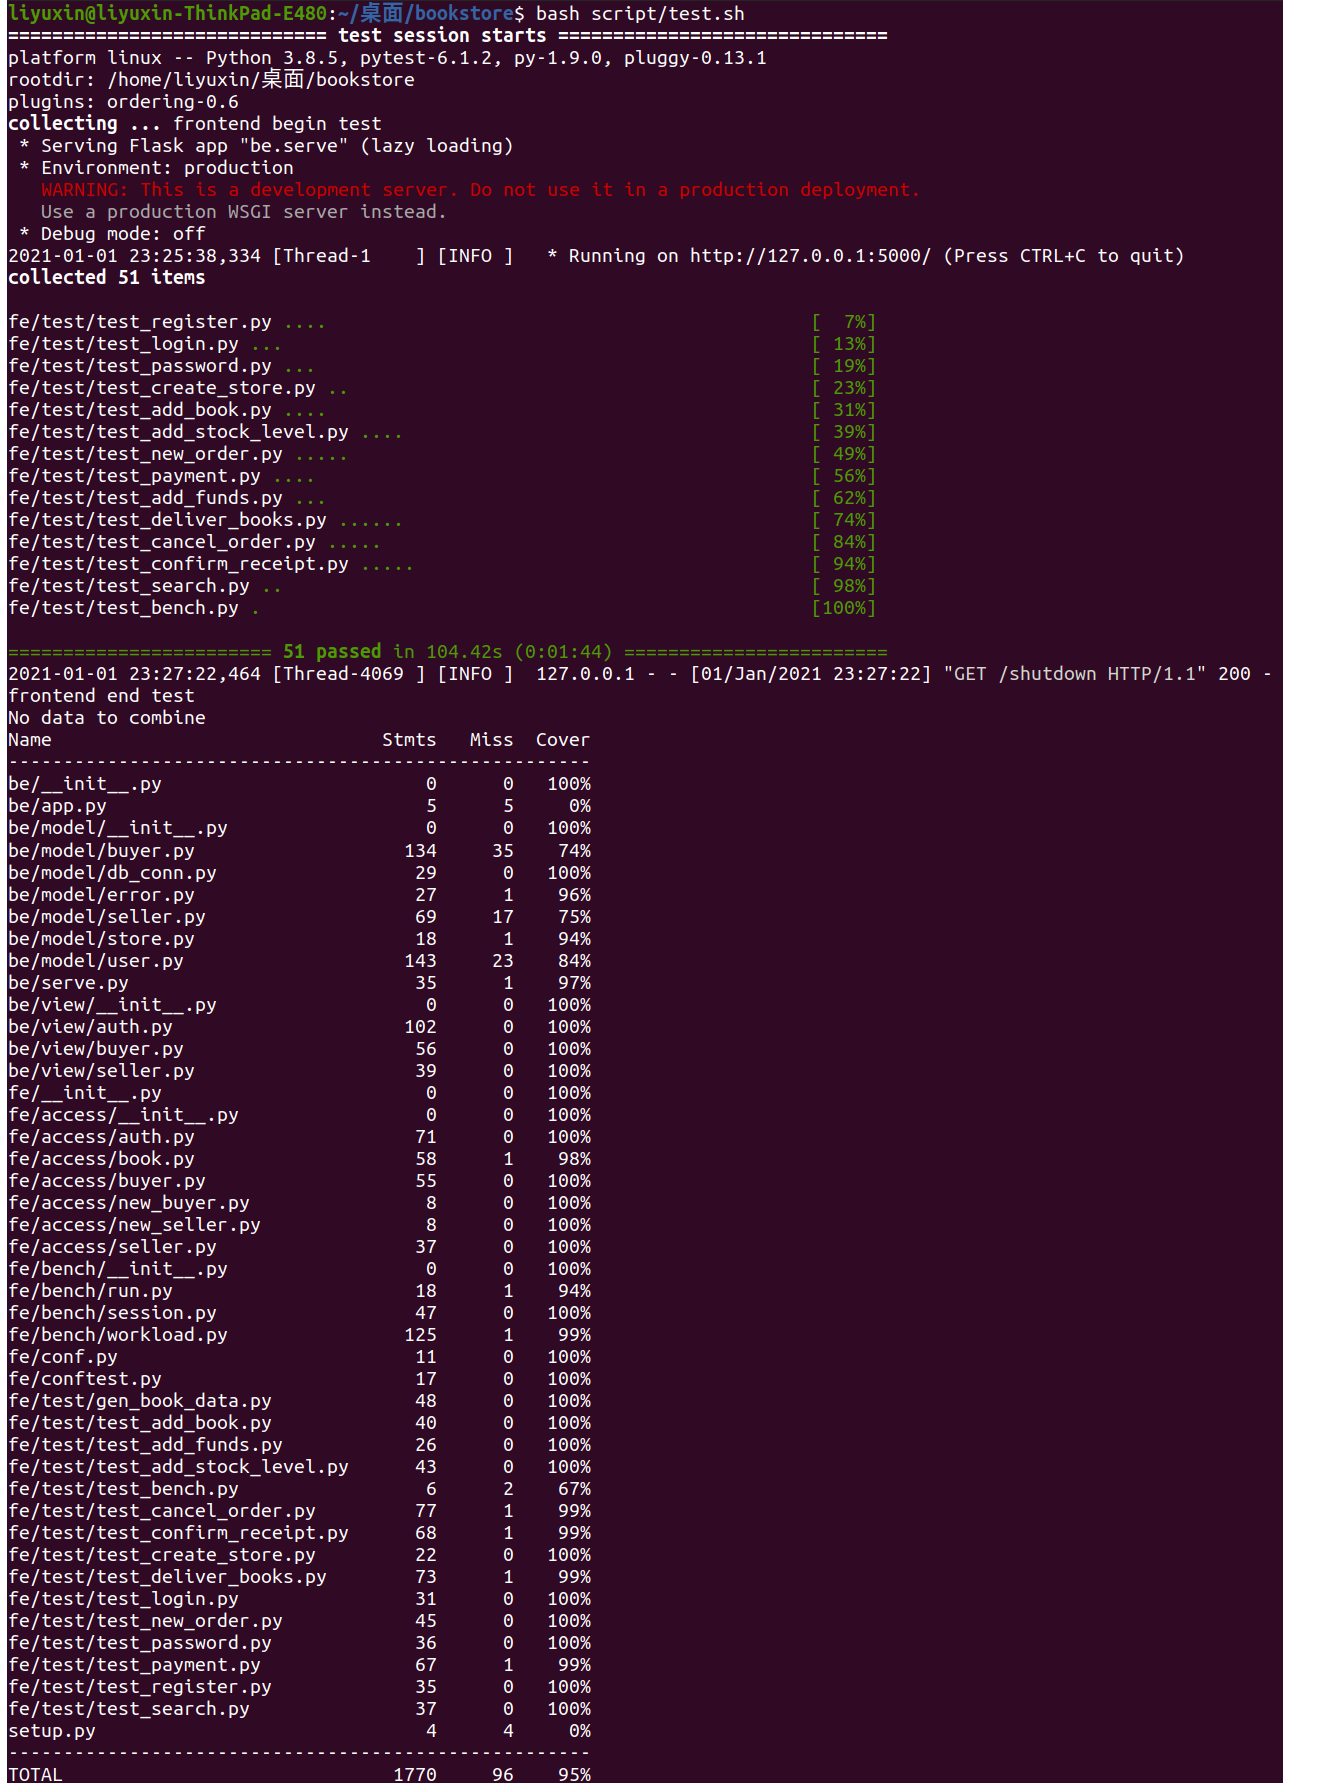
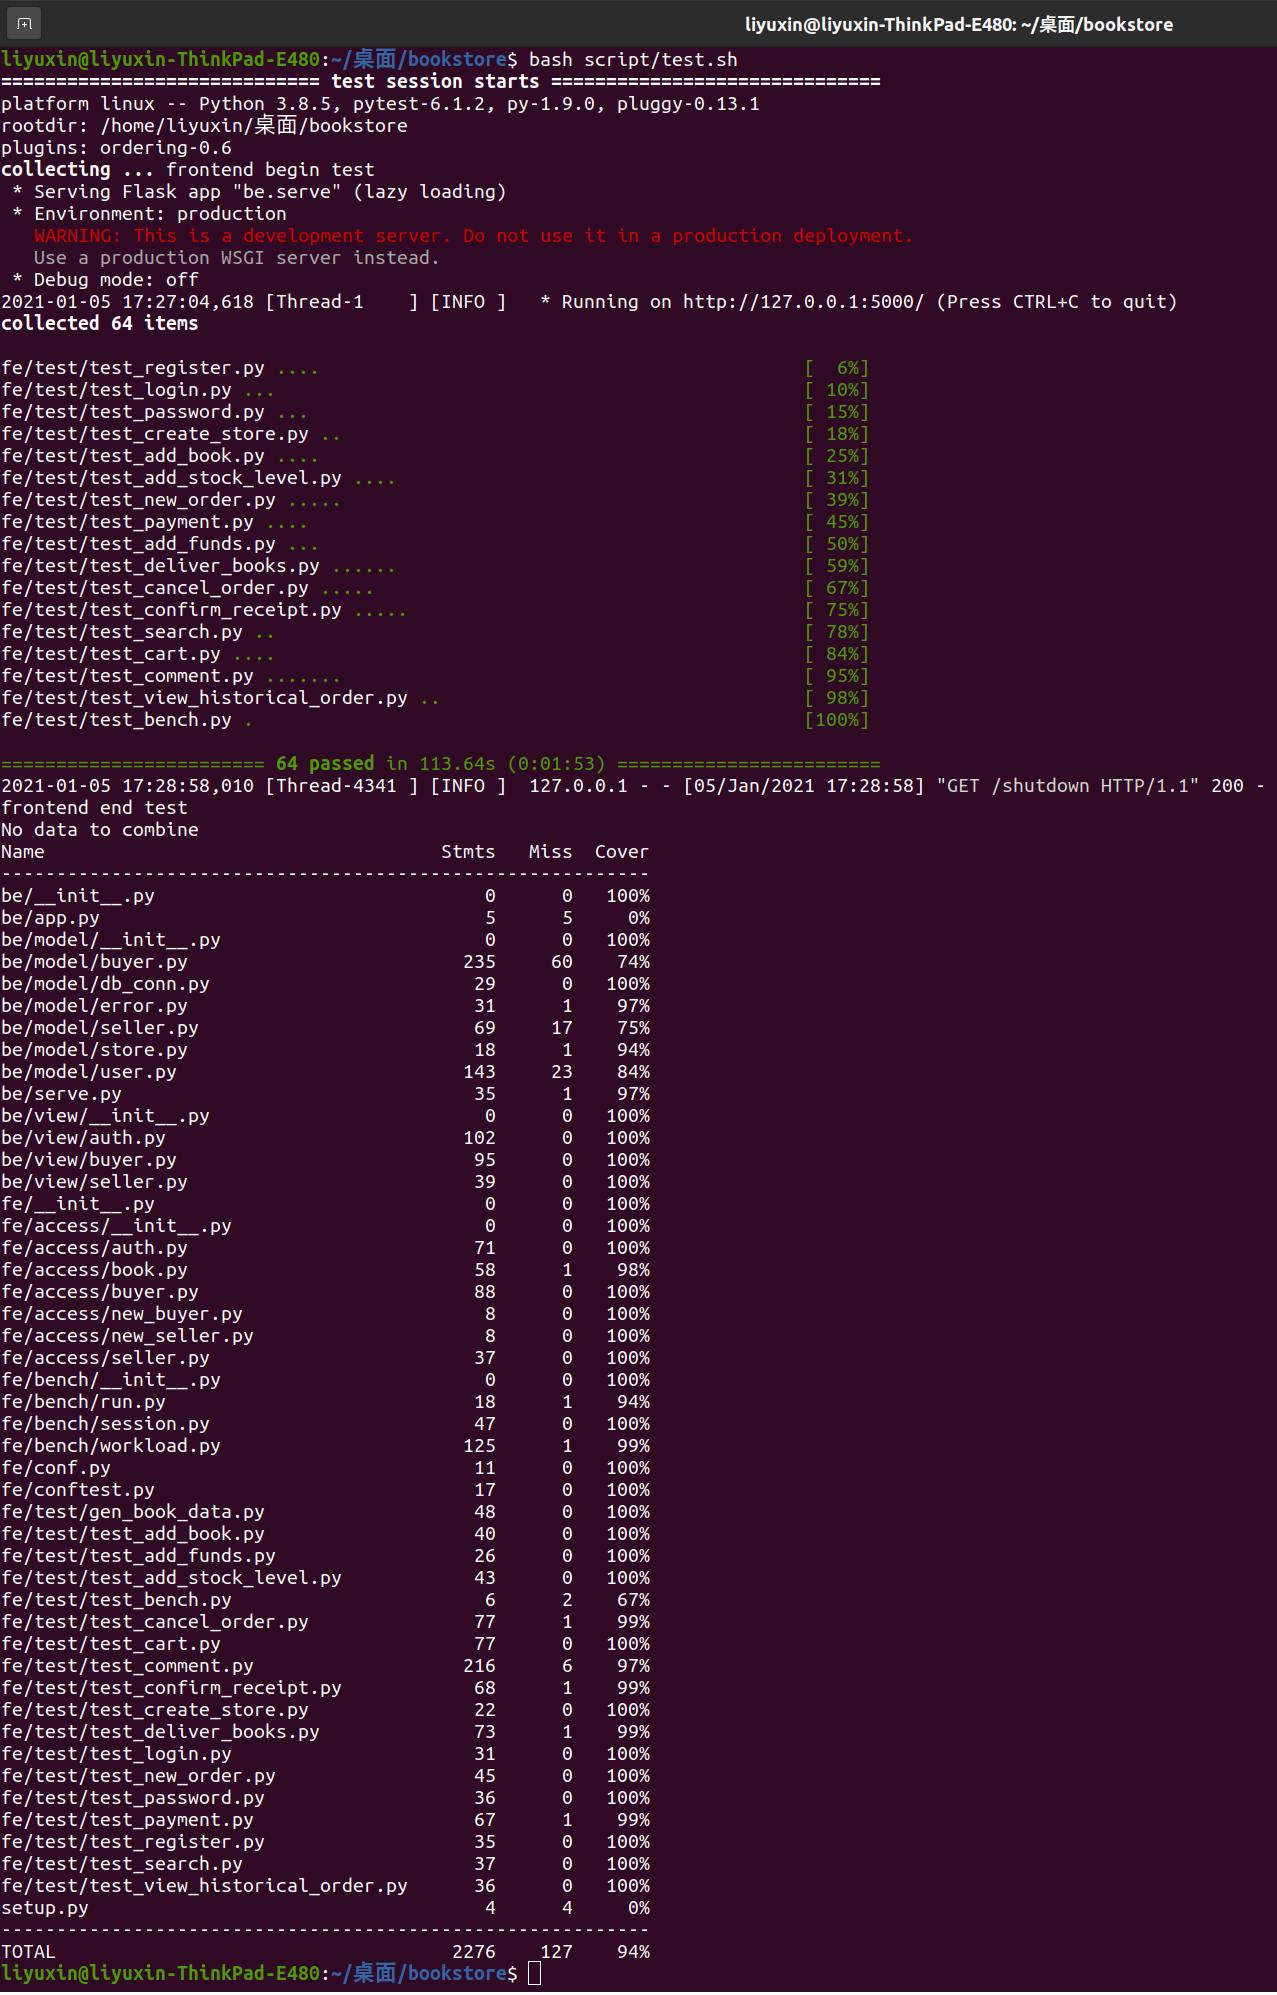
update README.md

Changed region(s): [[0.0, 0.0, 1.0, 1.0]]

diff --git a/fe/test/test_comment.py b/fe/test/test_comment.py
@@ -20,6 +20,7 @@ class TestComment:
         self.rate = random.randint(0, 5)
         yield
 
+    @pytest.mark.run(order=55)
     def test_ok(self):
         gen_book = GenBook(self.seller_id, self.store_id)
         ok, buy_book_id_list = gen_book.gen(non_exist_book_id=False, low_stock_level=False, max_book_count=5)
@@ -53,6 +54,7 @@ class TestComment:
         assert code == 200
         assert comments[0] == self.comment
 
+    @pytest.mark.run(order=56)
     def test_comment_twice(self):
         gen_book = GenBook(self.seller_id, self.store_id)
         ok, buy_book_id_list = gen_book.gen(non_exist_book_id=False, low_stock_level=False, max_book_count=5)
@@ -88,6 +90,7 @@ class TestComment:
         code = self.buyer.add_comment(self.store_id, self.buy_book_info_list[0][0].id, self.comment, self.rate)
         assert code != 200
 
+    @pytest.mark.run(order=57)
     def test_non_exist_book_in_store(self):
         gen_book = GenBook(self.seller_id, self.store_id)
         ok, buy_book_id_list = gen_book.gen(non_exist_book_id=False, low_stock_level=False, max_book_count=5)
@@ -121,6 +124,7 @@ class TestComment:
         assert code != 200
         assert comments[0] != self.comment
 
+    @pytest.mark.run(order=58)
     def test_non_exist_order(self):
         gen_book = GenBook(self.seller_id, self.store_id)
         ok, buy_book_id_list = gen_book.gen(non_exist_book_id=False, low_stock_level=False, max_book_count=5)
@@ -131,6 +135,7 @@ class TestComment:
         code = self.buyer.add_comment(self.store_id, self.buy_book_info_list[0][0].id, self.comment, self.rate)
         assert code != 200
 
+    @pytest.mark.run(order=59)
     def test_comment_while_order_is_not_done(self):
         gen_book = GenBook(self.seller_id, self.store_id)
         ok, buy_book_id_list = gen_book.gen(non_exist_book_id=False, low_stock_level=False, max_book_count=5)
@@ -159,6 +164,7 @@ class TestComment:
         code = self.buyer.add_comment(self.store_id, self.buy_book_info_list[0][0].id, self.comment, self.rate)
         assert code != 200
 
+    @pytest.mark.run(order=60)
     def test_non_exist_user(self):
         gen_book = GenBook(self.seller_id, self.store_id)
         ok, buy_book_id_list = gen_book.gen(non_exist_book_id=False, low_stock_level=False, max_book_count=5)
@@ -192,6 +198,7 @@ class TestComment:
         code, comments = self.buyer.view_comments(self.store_id, self.buy_book_info_list[0][0].id)
         assert code != 200
 
+    @pytest.mark.run(order=61)
     def test_non_exist_store(self):
         gen_book = GenBook(self.seller_id, self.store_id)
         ok, buy_book_id_list = gen_book.gen(non_exist_book_id=False, low_stock_level=False, max_book_count=5)

diff --git a/fe/test/test_cart.py b/fe/test/test_cart.py
@@ -20,6 +20,7 @@ class TestCart:
         self.password = self.seller1_id
         yield
 
+    @pytest.mark.run(order=51)
     def test_ok(self):
         gen_book_1 = GenBook(self.seller1_id, self.store1_id)
         gen_book_2 = GenBook(self.seller2_id, self.store2_id)
@@ -43,6 +44,7 @@ class TestCart:
         assert code == 200
         assert cart == cart_test
 
+    @pytest.mark.run(order=52)
     def test_non_exist_book_in_store(self):
         gen_book_1 = GenBook(self.seller1_id, self.store1_id)
         ok, buy_book_id_list_1 = gen_book_1.gen(non_exist_book_id=False, low_stock_level=False, max_book_count=5)
@@ -54,6 +56,7 @@ class TestCart:
             code = self.buyer.add_into_cart(self.store1_id, i[0].id+"_x", i[1])
             assert code != 200
 
+    @pytest.mark.run(order=53)
     def test_non_exist_user(self):
         gen_book_1 = GenBook(self.seller1_id, self.store1_id)
         ok, buy_book_id_list_1 = gen_book_1.gen(non_exist_book_id=False, low_stock_level=False, max_book_count=5)
@@ -68,6 +71,7 @@ class TestCart:
         code, cart = self.buyer.view_cart()
         assert code != 200
 
+    @pytest.mark.run(order=54)
     def test_non_exist_store(self):
         gen_book_1 = GenBook(self.seller1_id, self.store1_id)
         ok, buy_book_id_list_1 = gen_book_1.gen(non_exist_book_id=False, low_stock_level=False, max_book_count=5)

diff --git a/fe/test/test_view_historical_order.py b/fe/test/test_view_historical_order.py
@@ -25,12 +25,14 @@ class TestViewHistoricalOrder:
         self.time = time.strftime('%a, %d %b %Y %H:%M:%S GMT', time.localtime(time.time()))
         yield
 
+    @pytest.mark.run(order=62)
     def test_ok(self):
         orders_test = [{"order_id": self.order_id, "store_id": self.store_id, "order_time": self.time, "state": "unpaid"}]
         code, orders = self.buyer.view_historical_order()
         assert code == 200
         assert orders == orders_test
 
+    @pytest.mark.run(order=63)
     def test_non_exist_user(self):
         orders_test = [
             {"order_id": self.order_id, "store_id": self.store_id, "order_time": self.time, "state": "unpaid"}]

diff --git a/README.md b/README.md
@@ -109,7 +109,7 @@ bash script/test.sh
 
 ### ER图
 
-![](./image/ER图.svg)
+![](./image/ER.svg)
 
 **实体：** 用户、商店、订单和书籍四个实体类，其中用户包括*买家*和*卖家*两个子类
 
@@ -127,7 +127,7 @@ bash script/test.sh
 - 商店接单：一对多关系，一家商店可以拥有多笔订单，一笔订单只能被一家商店拥有
 - 订单详情：多对多关系，一笔订单可以包括多册书，一册书也可以被多笔订单拥有
 - 商店存货：多对多关系，一册书可以被多家商店拥有，一家商店也可以拥有多册书
-- 用户评论：多对多关系，一位买家可以对多家商店下的多本书进行评论，一家商店下的一册书也可以由多为买家评论
+- 用户评论：多对多关系，一位买家可以对多家商店下的多本书进行评论，一家商店下的一册书也可以由多位买家评论
 
 
 
@@ -493,34 +493,35 @@ bash script/test.sh
 #### f17. 添加评论*
 
 - 实现：判断 `user_id` 、`store_id` 、`book_id` 和 `order_id` 是否存在，即判断该用户是否在该商店下购买过该本书籍，存在的话判断用户是否已经对该商品进行了评论，如果已经进行了评论则返回错误，否则将用户的评论添加到评论表中。
-- 分析：涉及五次查询操作和一次插入操作
+- 分析：涉及五次查询操作和一次插入操作。
 
 
 
 #### f18. 查看评论*
 
-- 实现：判断 `user_id` 、`store_id` 和 `book_id` 是否存在，存在的话查询该本书下的评论
-- 分析：涉及四次查询操作
+- 实现：判断 `user_id` 、`store_id` 和 `book_id` 是否存在，存在的话查询该本书下的评论。
+- 分析：涉及四次查询操作。
 
 
 
 #### f19. 添加购物车*
 
-- 实现：判断 `user_id` 、`store_id` 是否存在，存在的话查看用户购物车中是否已经存在该本书籍，存在的话更新书籍数量，不存在的话添加到购物车中
-- 分析：涉及三次查询操作及一次更新或插入操作
+- 实现：判断 `user_id` 、`store_id` 是否存在，存在的话查看用户购物车中是否已经存在该本书籍，存在的话更新书籍数量，不存在的话添加到购物车中。
+- 分析：涉及三次查询操作及一次更新或插入操作。
 
 
 
 #### f20. 查看购物车*
 
-- 实现：判断 `user_id` 是否存在，存在的话查询 `user_cart` 中 `user_id` 的购物车情况
-- 分析：涉及两次查询操作
+- 实现：判断 `user_id` 是否存在，存在的话查询 `user_cart` 中 `user_id` 的购物车情况。
+- 分析：涉及两次查询操作。
 
 
 
 #### f21. 历史记录*
 
-
+- 实现：判断 `user_id` 是否存在，存在的话从 `new_order` 表中查询历史订单。
+- 分析：涉及两次查询操作。
 
 
 
@@ -530,7 +531,7 @@ bash script/test.sh
 
 - 实现：搜索功能需要提前构建倒排索引表实现，利用用户输入的查询内容和对应的书号构建查询表，提前存储在数据库中，以便用户输入某查询时可以很快返回对应书的所有信息给用户。
 
-  - search_title：用于存放搜索标题的查询，search_id和title查询内容组成联合主键，无需额外的索引
+  - search_title：用于存放搜索标题的查询，search_id和title查询内容组成联合主键，无需额外的索引。
 
     考虑到用户在查询标题时存在记忆模糊的情况，可能会记不住整个标题，只记得标题的部分内容，因此构建的倒排索引应当包含只有部分标题的查询。所以在表内增加了标题全称和对应查询之间的记录之外，还增加了部分标题名和对应查询的记录。这里对于所有的标题，主要存在中文和英文两类，对于中文，采用jieba分词切分技术，将分词的结果存储在查询表中；对于英文，根据空格进行分词，将对应的单词存放在存储表中。
 
@@ -544,7 +545,7 @@ bash script/test.sh
     +------------+--------------+------+-----+---------+-------+
     ```
 
-  - search_author：用于存放搜索作者的查询，search_id和author查询内容组成联合主键，无需额外的索引
+  - search_author：用于存放搜索作者的查询，search_id和author查询内容组成联合主键，无需额外的索引。
 
     考虑到用户在查询作者名时也存在记忆模糊的情况，可能会记不住作者全名，只记得作者名的部分内容（作者的姓氏），因此构建的倒排索引应当包含只有部分作者名的查询。所以在表内增加了作者全名和对应查询之间的记录之外，还增加了部分作者名和对应查询的记录。这里对于所有的作者，主要存在中文和英文两类，对于中文，存储包括作者的姓氏，作者名的前几个字等信息；对于英文，存储英文输入中存在少量错词（单词拼写错误）、漏词（字母遗漏，只记得作者名的前几个字母）的情况。
 
@@ -558,7 +559,7 @@ bash script/test.sh
     +------------+--------------+------+-----+---------+-------+
     ```
 
-  - search_book_intro：用于存放搜索内容关键词的查询，search_id和book_intro查询内容组成联合主键，无需额外的索引
+  - search_book_intro：用于存放搜索内容关键词的查询，search_id和book_intro查询内容组成联合主键，无需额外的索引。
 
     考虑到用户在查询内容时不可能将整个查询的内容全部放在查询表中，如果这么处理内容量太大了，这里采用了提取关键词的方式，通过首先对文章进行分词（中文jieba分词并剔除停用词，英文根据空格分词剔除常用和无意义的词）,计算所有词在文档中出现的频率，提取其中出现频率最高的一部分词（前百分之5）作为该书的关键词，存放在关键词查询表中。
 
@@ -572,7 +573,7 @@ bash script/test.sh
     +------------+--------------+------+-----+---------+-------+
     ```
 
-  - search_tags：用于存放搜索标签的查询，search_id和tags查询内容组成联合主键，无需额外的索引
+  - search_tags：用于存放搜索标签的查询，search_id和tags查询内容组成联合主键，无需额外的索引。
 
     搜索标签在数据库中已经做好了分类，但考虑到该标签内容繁杂，每本书对应大量的标签，而且很多标签为组合词甚至短语如果直接让用户进行搜索，可能会出现搜索不到对应的词的情况，例如“人物传记”一个标签，用户单独搜索“传记”会查询不到相应的结果。所以同搜索标题表一样，对于中文进行了jieba分词处理，对于英文按照空格单词处理，在分好词的基础上将所有分词结果以及原先整个标题结果全部存储到查询表中。
 
